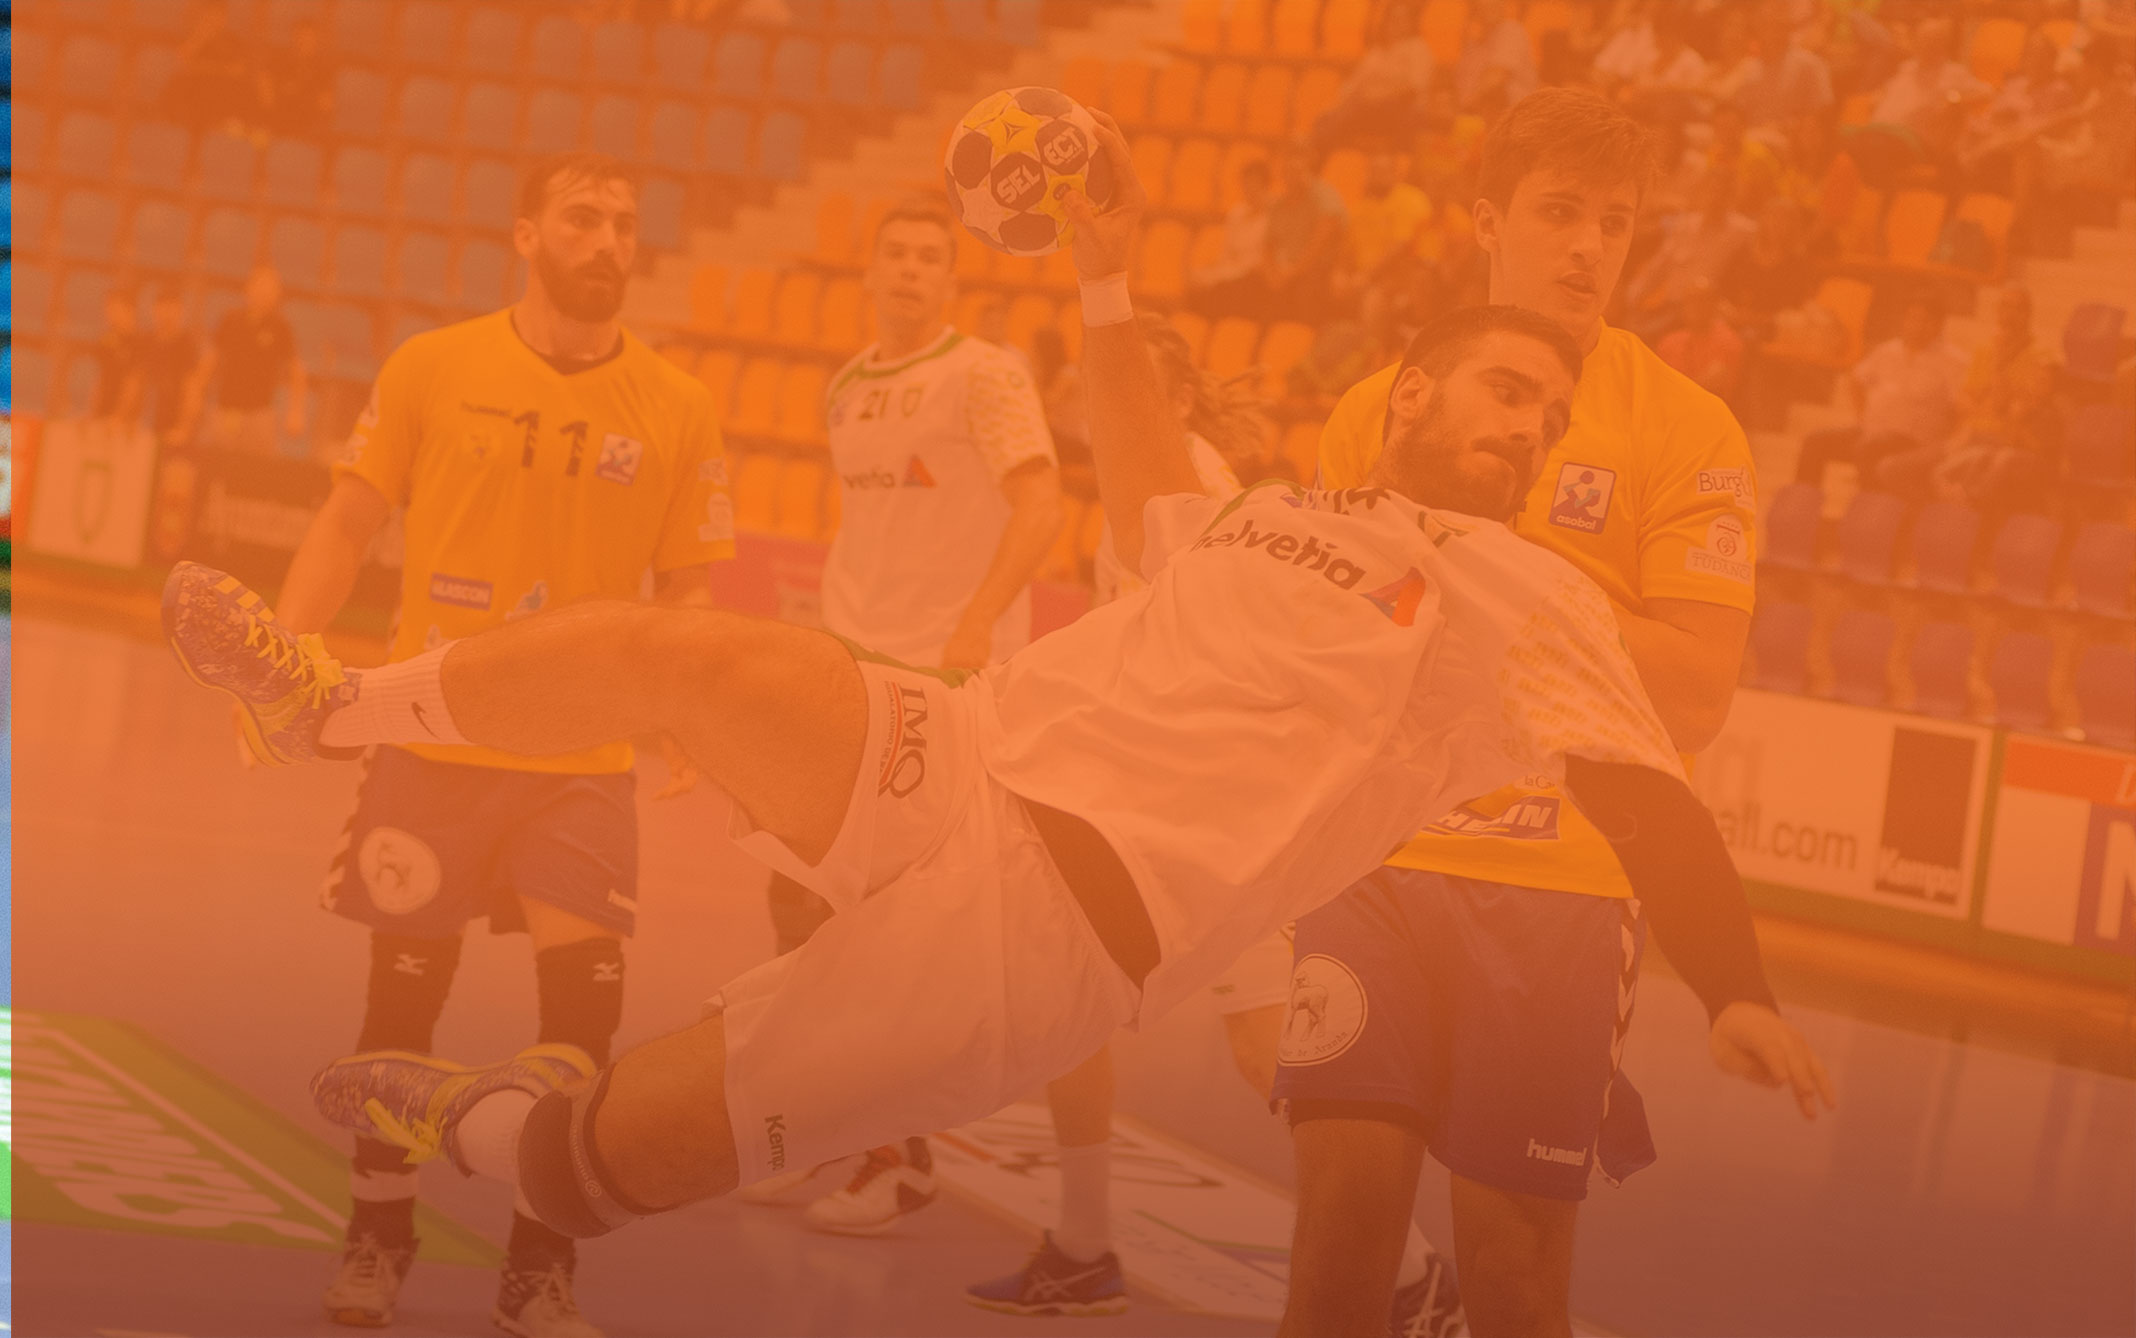
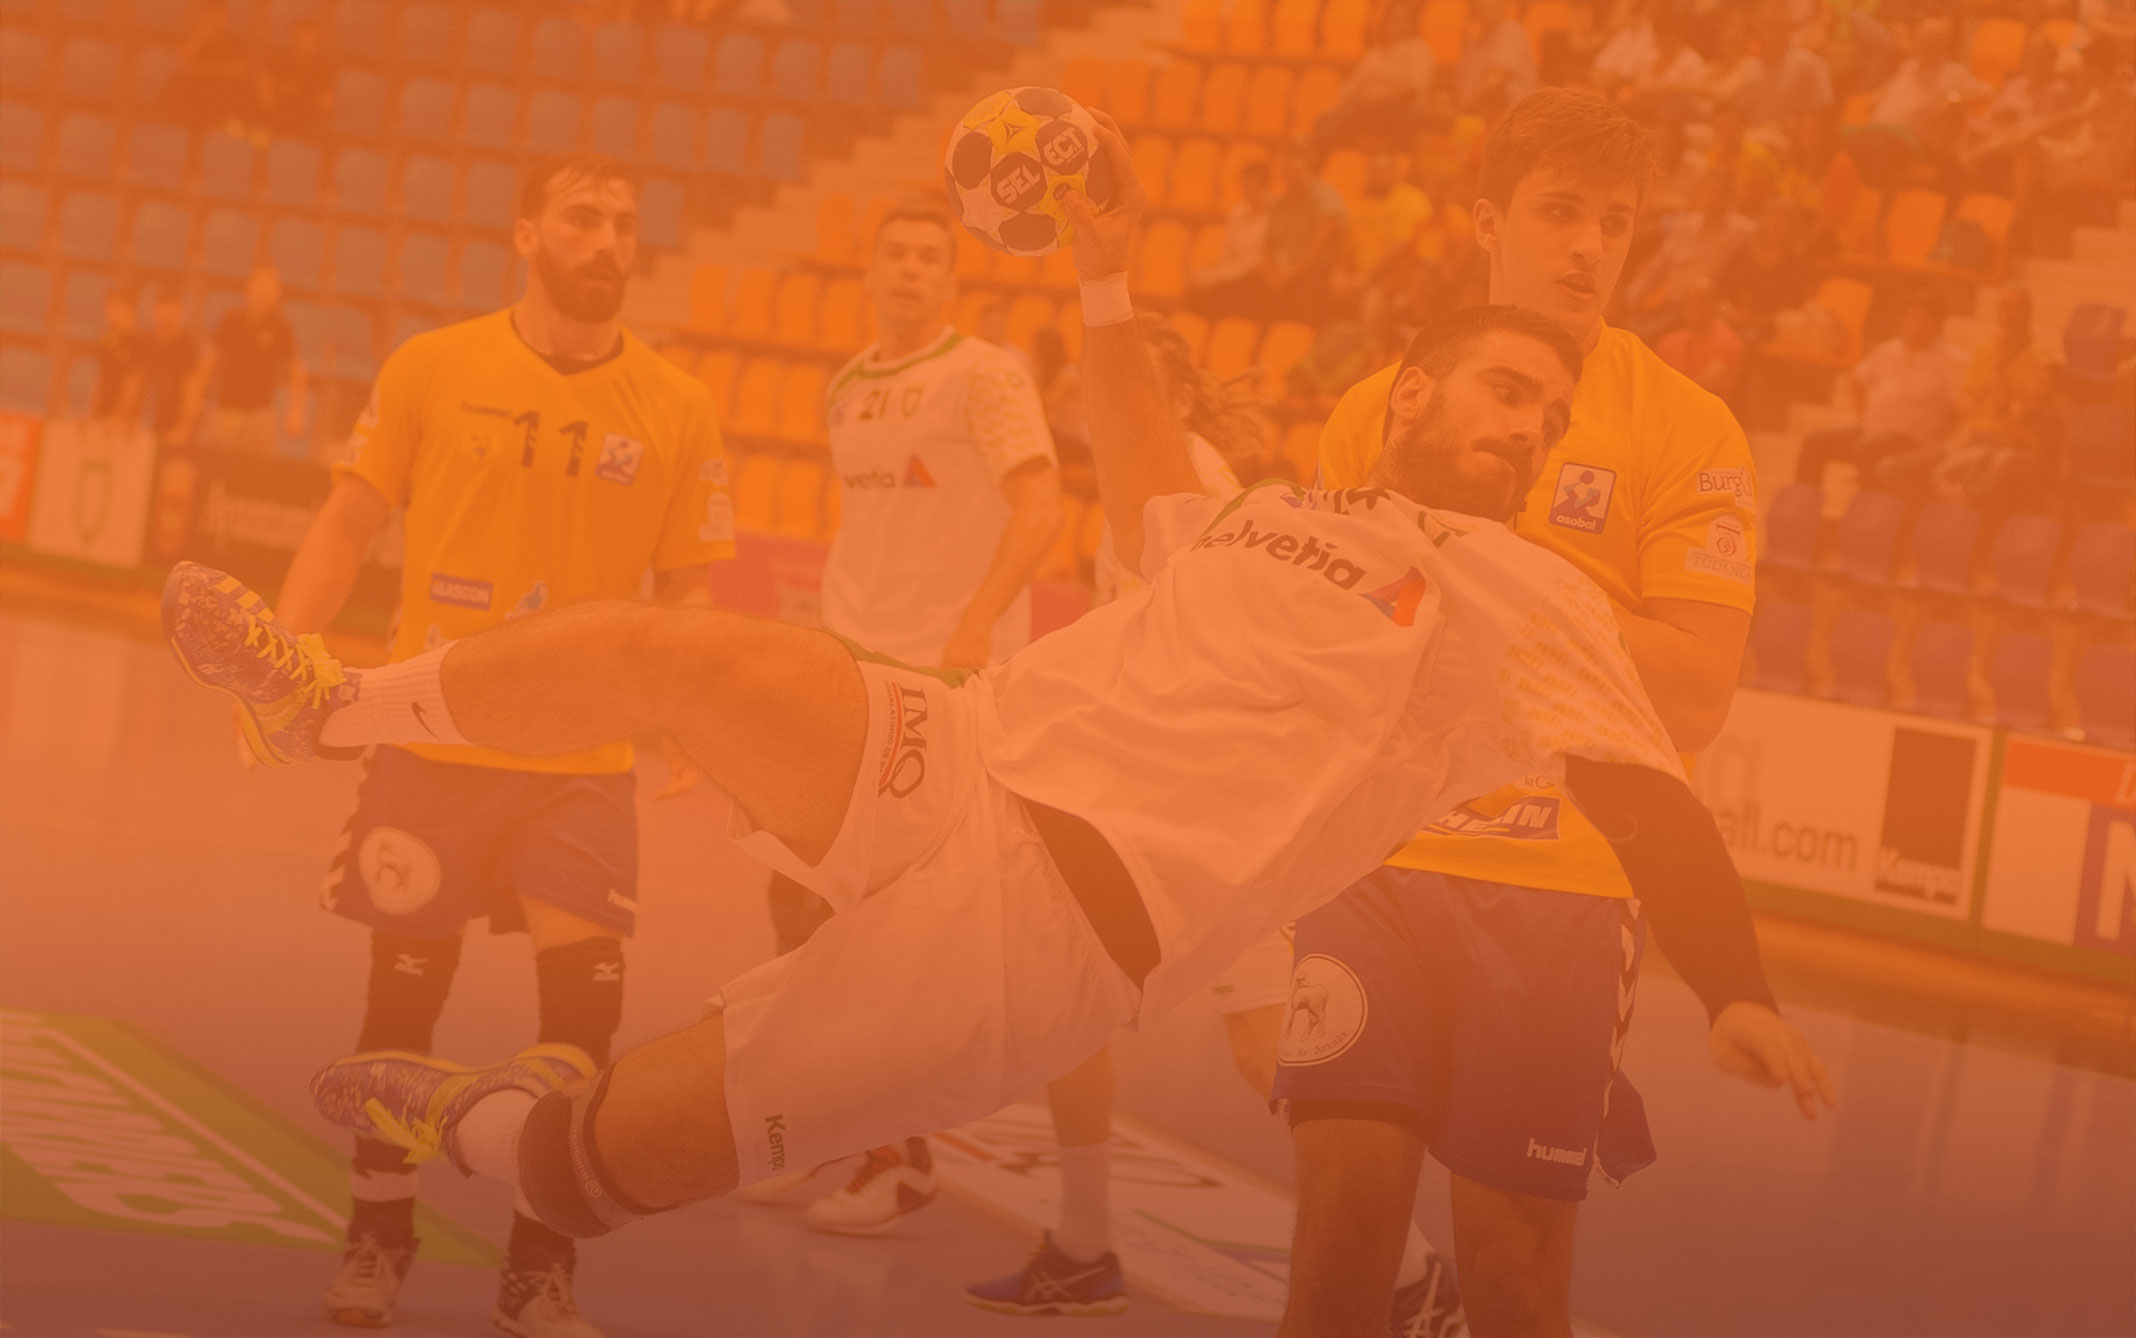
Tablet responsiveness done all pages

Changed region(s): [[0.0, 0.0, 0.0309, 1.0]]

diff --git a/v2/css/style.css b/v2/css/style.css
@@ -175,24 +175,11 @@ nav {
   background-color: #415879;
   grid-row-start: 1;
   grid-row-end: 3;
-  background-image: url("../media/banner-img.jpg");
+  background-image: url("../media/banner-img-large-2x.jpg");
   background-repeat: no-repeat;
   background-size: cover;
   background-position: center;
   z-index: 1;
-}
-
-.banner:before {
-  content: "";
-  display: block;
-  height: 81%;
-  width: 100%;
-  position: absolute;
-  top: 0;
-  bottom: 0;
-  left: 0;
-  background: linear-gradient(#273B52 50%, #182231 100%);
-  opacity: 0.8;
 }
 
 .banner h1 {
@@ -1006,7 +993,7 @@ footer {
 .footer-nav {
   border-width: 1px;
   border-style: solid;
-  border-image: linear-gradient(to bottom, rgba(132, 151, 172, 0) 0%, rgba(132, 151, 172, 1) 20%, rgba(132, 151, 172, 1) 80%, rgba(132, 151, 172, 0)) 1 100%;
+  border-image: linear-gradient(to bottom, rgba(92, 92, 92, 0) 0%, rgba(92, 92, 92, 1) 20%, rgba(92, 92, 92, 1) 80%, rgba(92, 92, 92, 0)) 1 100%;
 }
 
 .footer-nav ul {
@@ -1024,7 +1011,7 @@ footer {
 .footer-nav hr {
   border: 0;
   height: 1px;
-  background-color: #8BA4BF;
+  background-color: #9A9A9A;
 }
 
 .footer-nav li {
@@ -1317,7 +1304,7 @@ footer {
 .project-info {
   display: grid;
   grid-column: 1 / 13;
-  padding: 120px 200px;
+  padding: 120px 200px 100px 200px;
   background-color: #F5F4EC;
   color: #343434;
 }
@@ -1482,16 +1469,122 @@ footer {
 
 @media only screen and (max-width: 1400px) {
   .project-info {
-    padding: 120px 140px;
+    padding: 120px 140px 100px 140px;
   }
 }
 
 
 
 @media only screen and (max-width: 1068px) {
+  .logo a{
+    margin: 40px 0 0 40px;
+  }
+
+  .menu {
+    margin: 55px 30px 0 0;
+  }
+
+  .banner h1 {
+    font-size: 70px;
+    margin-top: 160px;
+  }
+
+  .banner {
+    background-image: url("../media/banner-img-medium-2x.jpg");
+  }
+
+  .banner-btn{
+    margin-bottom: 80px;
+  }
+
+  .text-carousel{
+    width: 750px;
+    margin: 10px auto 40px auto;
+  }
+
+  .text-carousel-text{
+    font-size: 22px;
+  }
+
+  .text-carousel-list{
+    padding-left: 421px;
+  }
+
+  .text-carousel-list-item{
+    font-size: 22px;
+  }
+
+  .worktext{
+    padding-bottom: 80px;
+  }
+
+  .work h3{
+    text-align: center;
+    margin-bottom: 40px;
+    font-size: 75px;
+    line-height: 80px;
+  }
+
+  .quotesgrid > div{
+    padding: 50px 40px 50px 40px;
+  }
+
+  footer{
+    padding: 100px 0 50px 0
+  }
+
+  .footer-container{
+    padding-bottom: 50px;
+  }
+
+  .footer-contact p, .footer-btn{
+    margin-left: 4.5vw;
+  }
+
+  .copyright{
+    width: 65%;
+  }
+
+  /* ABOUT PAGE (TABLET) */
+
+  .intro-text{
+    padding: 130px 80px 0 60px;
+  }
+
+  .aboutme{
+    padding-bottom: 100px;
+  }
+
+  .aboutme h4{
+    padding-top: 80px;
+  }
+
+  .values{
+    padding: 70px 10px 80px 10px;
+  }
+
+  .values > div{
+    padding: 35px;
+  }
+
+  /* PROJECT PAGE (TABLET) */
 
   .project-info {
-    padding: 120px 80px;
+    padding: 120px 60px 100px 60px;
+  }
+
+  .info-left{
+    padding-right: 10vw;
+  }
+
+  .project-banner h1 {
+    font-size: 80px;
+    margin-top: 190px;
+  }
+
+  .project-banner h3 {
+    margin-bottom: 133px;
+    font-size: 22px;
   }
 
   .full-big{height: 700px;}
